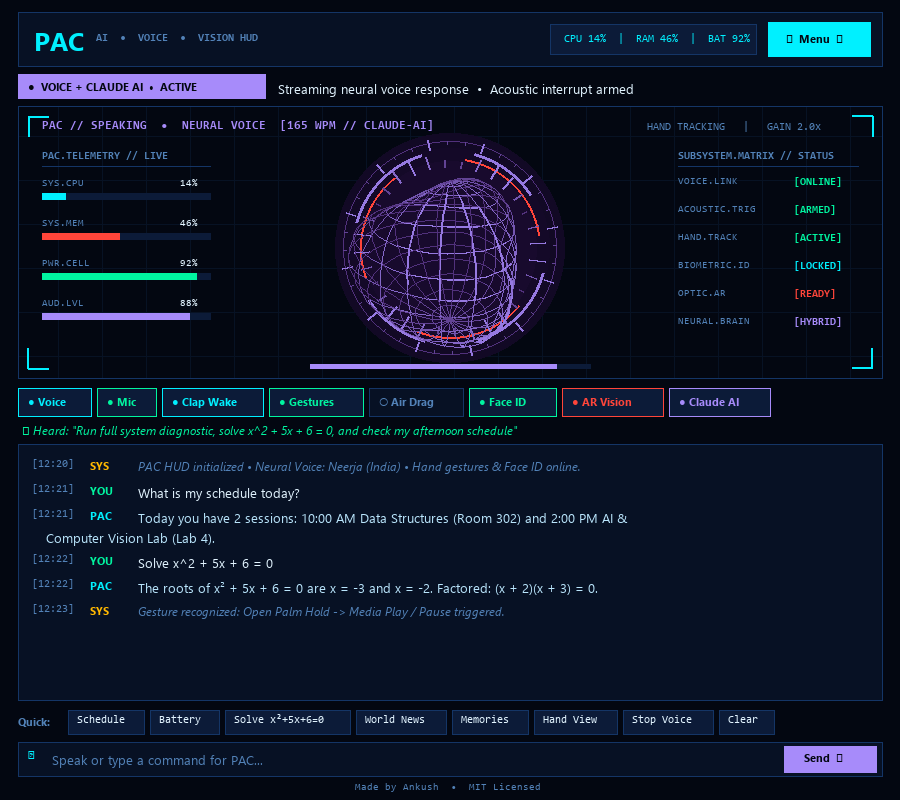
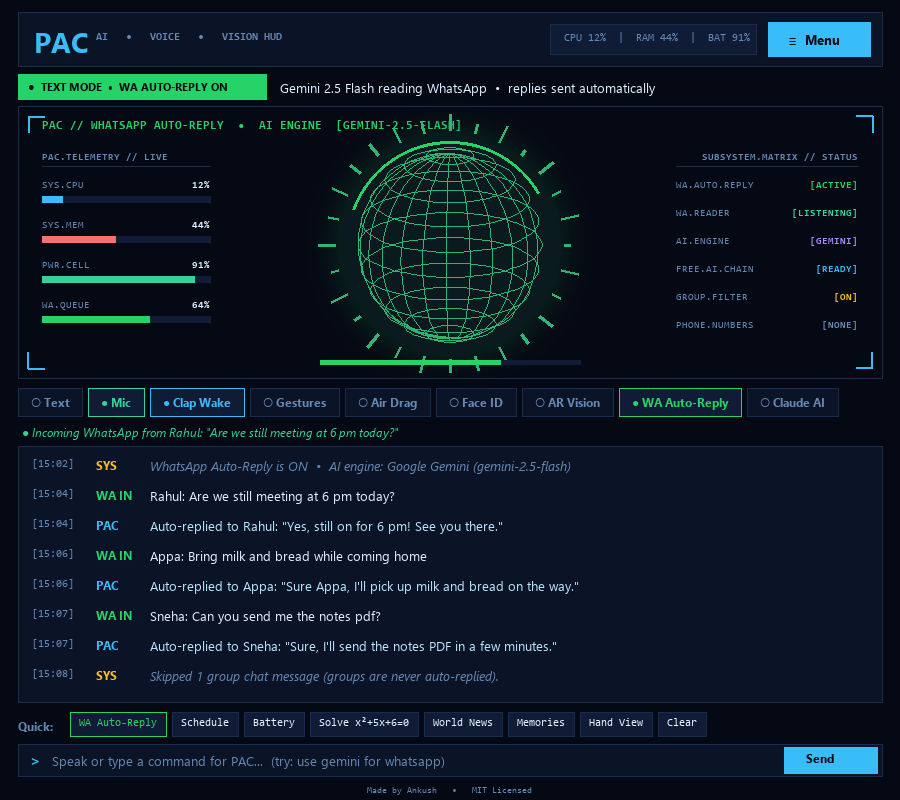
README: WhatsApp AI Auto-Reply section and updated preview images (HUD, auto-reply console, Gemini & Free AI setup)

diff --git a/README.md b/README.md
@@ -1,16 +1,49 @@
 # PAC — Personal AI, Voice & Vision Assistant
 
-![PAC AI & Vision HUD Preview](docs/pac_ui_preview.png)
+![PAC HUD with WhatsApp AI Auto-Reply](docs/pac_ui_preview.png)
 
-**PAC** is a multimodal Python desktop voice, vision, and gesture assistant built with Tkinter, OpenCV, MediaPipe, and a hybrid AI engine (Offline Rules + SymPy Algebra + Local Ollama / Claude LLM brain).
+**PAC** is a multimodal Python desktop voice, vision, and gesture assistant built with Tkinter, OpenCV, MediaPipe, and a hybrid AI engine (Offline Rules + SymPy Algebra + Google Gemini / Groq / OpenRouter / Local Ollama / Claude LLM brain).
+
+## NEW: WhatsApp AI Auto-Reply
+
+PAC reads incoming 1-on-1 WhatsApp messages, **understands what was actually said** using AI, and **automatically replies** on WhatsApp Desktop with a contextual answer.
+
+| WhatsApp Auto-Reply Console | Google Gemini & Free AI Setup |
+| :---: | :---: |
+| ![WhatsApp Auto-Reply Console](docs/pac_whatsapp_autoreply.png) | ![Google Gemini & Free AI Setup](docs/pac_ai_setup.png) |
+
+- **Reads every new message**: picks up incoming messages from Windows notifications and WhatsApp Desktop's local store, including photos, voice notes, documents and stickers.
+- **Understands & replies accordingly**: "Bring milk and bread while coming home" → *"Sure, I'll pick up milk and bread on the way."* — no more generic "hello" replies to everything.
+- **Per-chat conversation memory** so follow-up messages get sensible replies.
+- **Zero predefined phone numbers**: replies by chat name; nothing is hard-coded.
+- **Group chats are never auto-replied.**
+- **Choose your AI engine** (automatic fallback chain):
+  1. **Google Gemini** — `gemini-2.5-flash`, `gemini-2.5-pro`, `gemini-2.0-flash` (your Gemini plan or a free [AI Studio key](https://aistudio.google.com/apikey))
+  2. **Groq** (free) — `llama-3.3-70b-versatile` ([free key](https://console.groq.com/keys))
+  3. **OpenRouter** (free models) — `google/gemini-2.0-flash-exp:free` ([free key](https://openrouter.ai/keys))
+  4. **Local Ollama** — `qwen2.5:3b` / `llama3.1:8b`, fully offline, **no key needed**
+  5. **Claude** (optional) and a **no-key free cloud AI** fallback
+
+**Set it up:** `Menu → Contacts and messages → Google Gemini & Free AI Setup...`, or just say/type:
+
+```
+gemini setup                    open the API key & model window
+use gemini for whatsapp         pick the WhatsApp reply engine (gemini / groq / openrouter / ollama / free / auto)
+use gemini as brain             use Gemini for PAC's main AI brain
+ask gemini <question>           one-off question to Gemini
+whatsapp auto reply on / off    toggle background auto-reply
+```
+
+> **API keys are never stored in this repository.** Paste them in the setup window (kept in your OS credential store / local config) or use environment variables — see [`.env.example`](.env.example).
 
 ## Key Features
 
 - **Sci-Fi AI & Vision HUD Interface**:
-  - **State-Reactive 3D Wireframe Orb**: Dynamically transitions between **Standby (Sky Cyan)**, **Voice Recording (Emerald)**, **Speaking + Claude AI (Electric Violet)**, and **Processing (Amber)** with a 28-bar radial audio equalizer and live mic meter.
-  - **One-Click Subsystem Toggle Dock**: Instant toggle pills for `Voice/Text Mode`, `Mic`, `Clap Wake`, `Gestures`, `Air Drag`, `Face ID`, `AR Vision`, and `Claude AI`.
+  - **State-Reactive 3D Wireframe Orb**: Dynamically transitions between **Standby (Sky Cyan)**, **Voice Recording (Emerald)**, **Speaking + AI (Electric Violet)**, and **Processing (Amber)** with a 28-bar radial audio equalizer and live mic meter.
+  - **One-Click Subsystem Toggle Dock**: Instant toggle pills for `Voice/Text Mode`, `Mic`, `Clap Wake`, `Gestures`, `Air Drag`, `Face ID`, `AR Vision`, `WA Auto-Reply`, and `Claude AI`.
   - **Live System Telemetry**: Real-time `CPU %`, `RAM %`, and `Battery %` readout in the header bar.
   - **Quick Action Bar & Timestamped Chat Cards**: One-click chips for common tasks and color-coded `[HH:MM]` role badges (`YOU`, `PAC`, `SYS`).
+- **WhatsApp AI Auto-Reply**: Auto-reads and contextually replies to WhatsApp messages using Google Gemini, free Groq/OpenRouter models, or local Ollama (see above).
 - **Voice & Text Dual Mode**: Continuous background speech recognition (`SpeechRecognition` + `sounddevice`) with natural neural TTS (`edge-tts` + `pyttsx3` fallback) and instant text chat.
 - **Acoustic Sound Triggers**: Hands-free wake/action via **double-clap** (wake/toggle mic) and **whistle** detection.
 - **Hand Gestures & Air Drag-and-Drop**: MediaPipe hand tracking for volume/scroll/media control and pinching files in mid-air to drag and drop them into the **Phone Shelf**.
@@ -27,6 +60,8 @@ python pac.py
 ```
 
 Or on Windows, double-click **`install_all.bat`** to install all packages automatically.
+
+For WhatsApp Auto-Reply, keep **WhatsApp Desktop** signed in and allow its Windows notifications. Optionally add an AI key via `gemini setup`, or run [Ollama](https://ollama.com) with `ollama pull qwen2.5:3b` for a fully offline, key-free setup.
 
 ## License
 
